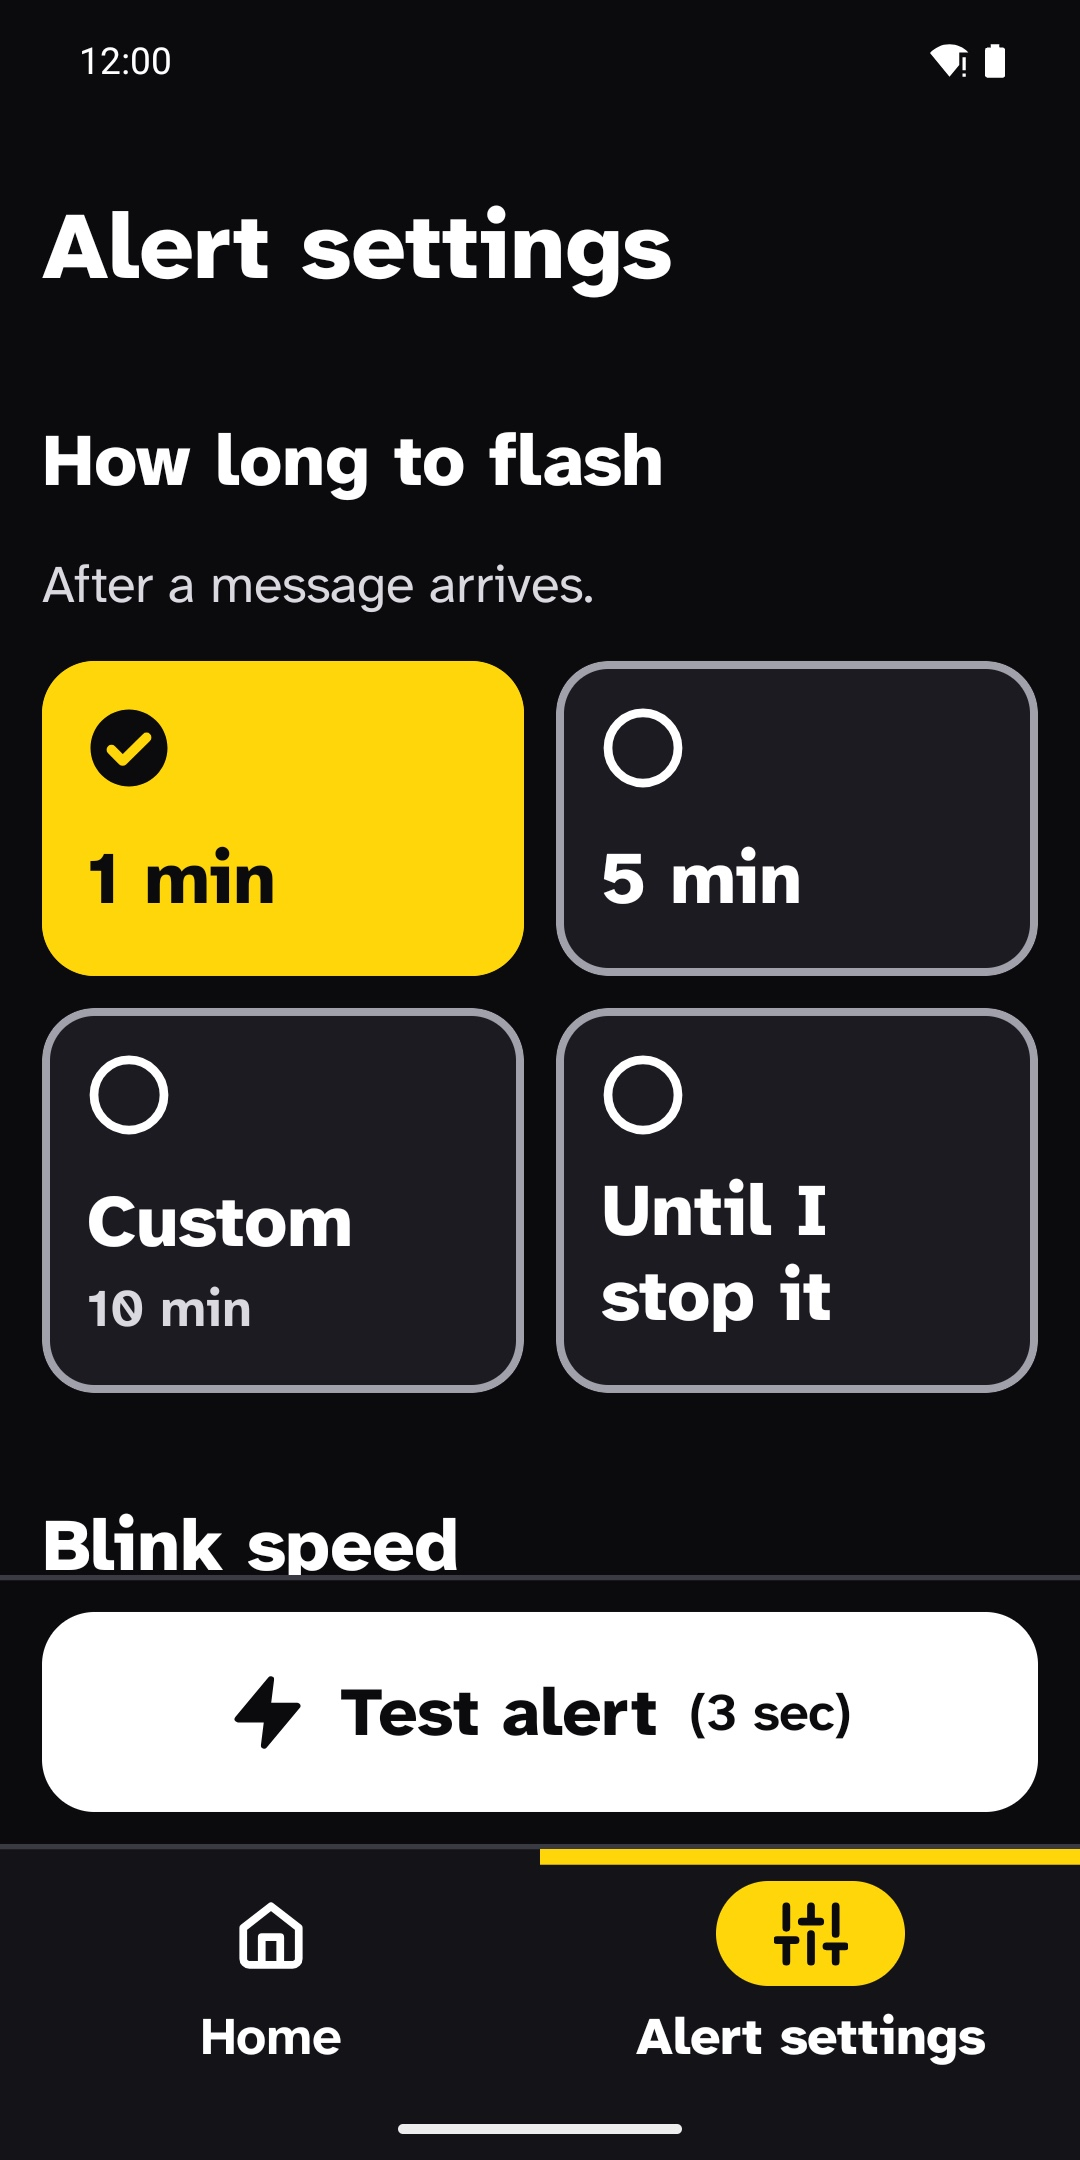
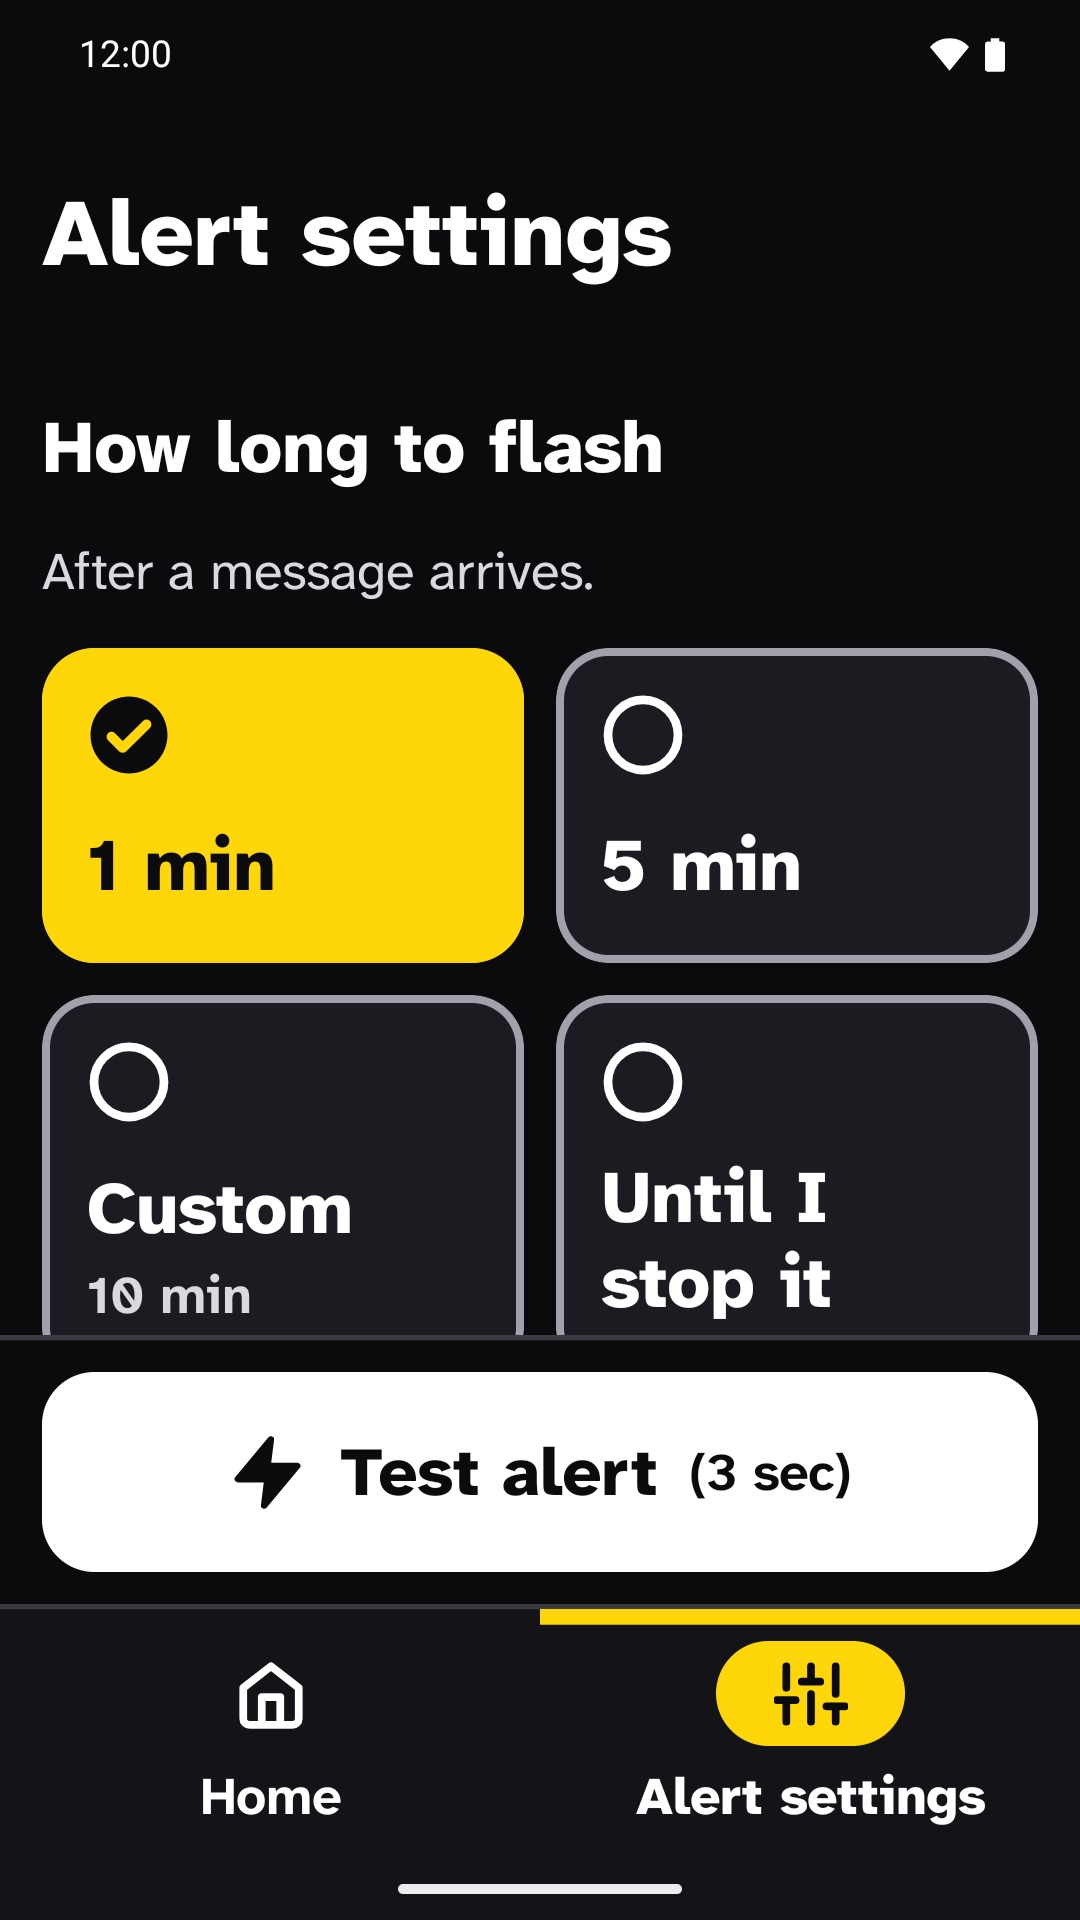
Store screenshots at 9:16, as Play Console requires

Changed region(s): [[0.0306, 0.1875, 1.0, 1.0], [0.275, 0.0938, 0.6417, 0.1562], [0.0306, 0.0938, 0.2444, 0.1562]]

diff --git a/docs/specs/2026-11-11-play-release-design.md b/docs/specs/2026-11-11-play-release-design.md
@@ -150,7 +150,7 @@ formats. No new software. They live in
 |---|---|---|
 | App icon | 512 × 512, 32-bit PNG | The launcher icon: the black bolt on the design's yellow. |
 | Feature graphic | 1024 × 500, JPEG (Play takes JPEG or a 24-bit PNG; neither has transparency) | "Beacon" and the bolt on the yellow, with one short line such as "See every message", in the app's colours. |
-| Phone screenshots | 4 or 5, JPEG, no transparency; each side 320 to 3,840 pixels, the long side at most twice the short one | From the emulator at the default text size, in English: Home with alerts ON, Alert settings, the test alert, the Finish setup card, and the widget. The emulator's 1080 × 2400 screens are cropped to 1080 × 2160 to fit the 2:1 limit. |
+| Phone screenshots | 5, JPEG, no transparency, **9:16** (Play Console asks for 16:9 or 9:16, each side 320 to 3,840 pixels; at least 4 of at least 1,080 pixels on each side for promotion) | From the emulator at the default text size, in English, with its screen set to 1080 × 1920: Home with alerts ON, Alert settings, the test alert, the Finish setup card, and the home screen with only the widget (the launcher's app suggestions turned off, so no other app's icon shows). |
 
 The screenshots come from the emulator, so they contain no personal data.
 Contrast and text sizes are the app's own, which already meet the project's

diff --git a/docs/plans/2026-11-11-play-release.md b/docs/plans/2026-11-11-play-release.md
@@ -24,7 +24,7 @@
 - Shrinking (`isMinifyEnabled`, `isShrinkResources`) stays off.
 - Store texts: app name "Beacon: Visual Message Alerts" (29 characters); short description at most 80 characters; full description at most 4,000; English only; name SMS and WhatsApp, never claim Telegram.
 - Colours for graphics: yellow `#FFD60A`, near-black `#0B0B0D` (13.93:1). The bolt path is `M13 2L3 14h9l-1 8 10-12h-9l1-8z`, filled and stroked 2 with round joins, as in `app/src/main/res/drawable/ic_launcher_foreground.xml`.
-- Asset formats: icon 512 × 512 PNG with an alpha channel; feature graphic 1024 × 500 and screenshots 1080 × 2160, without alpha (JPEG).
+- Asset formats: icon 512 × 512 PNG with an alpha channel; feature graphic 1024 × 500 and screenshots 1080 × 2160, without alpha (JPEG). (Changed during Task 7: Play Console asks for 9:16 screenshots, so they were retaken at 1080 × 1920; see the spec, section 6.)
 - Nothing in Play Console is submitted, saved or rolled out until the owner has approved `docs/store/play-console-answers.md`. The two legal declarations at app creation, and the final "Start rollout", each need the owner's yes in chat at that moment.
 
 ## Review Focus

diff --git a/CHANGELOG.md b/CHANGELOG.md
@@ -774,6 +774,11 @@ and the project uses [Semantic Versioning](https://semver.org/).
 
 ### Fixed
 
+- The five Play Store screenshots are retaken at 1080 × 1920 (9:16): Play
+  Console accepts phone screenshots only at 16:9 or 9:16, and they were
+  1080 × 2160 and 1080 × 1080. The widget one now shows the home screen
+  with only Beacon's widget (the emulator launcher's app suggestions off).
+  The spec's section 6 says so.
 - Spec section 13 and PR 3's checks listed a widget update among what
   cleans up an ended pause. The widget only draws from the clock; the
   stored pause is cleaned up when Beacon comes to the front, the screen
